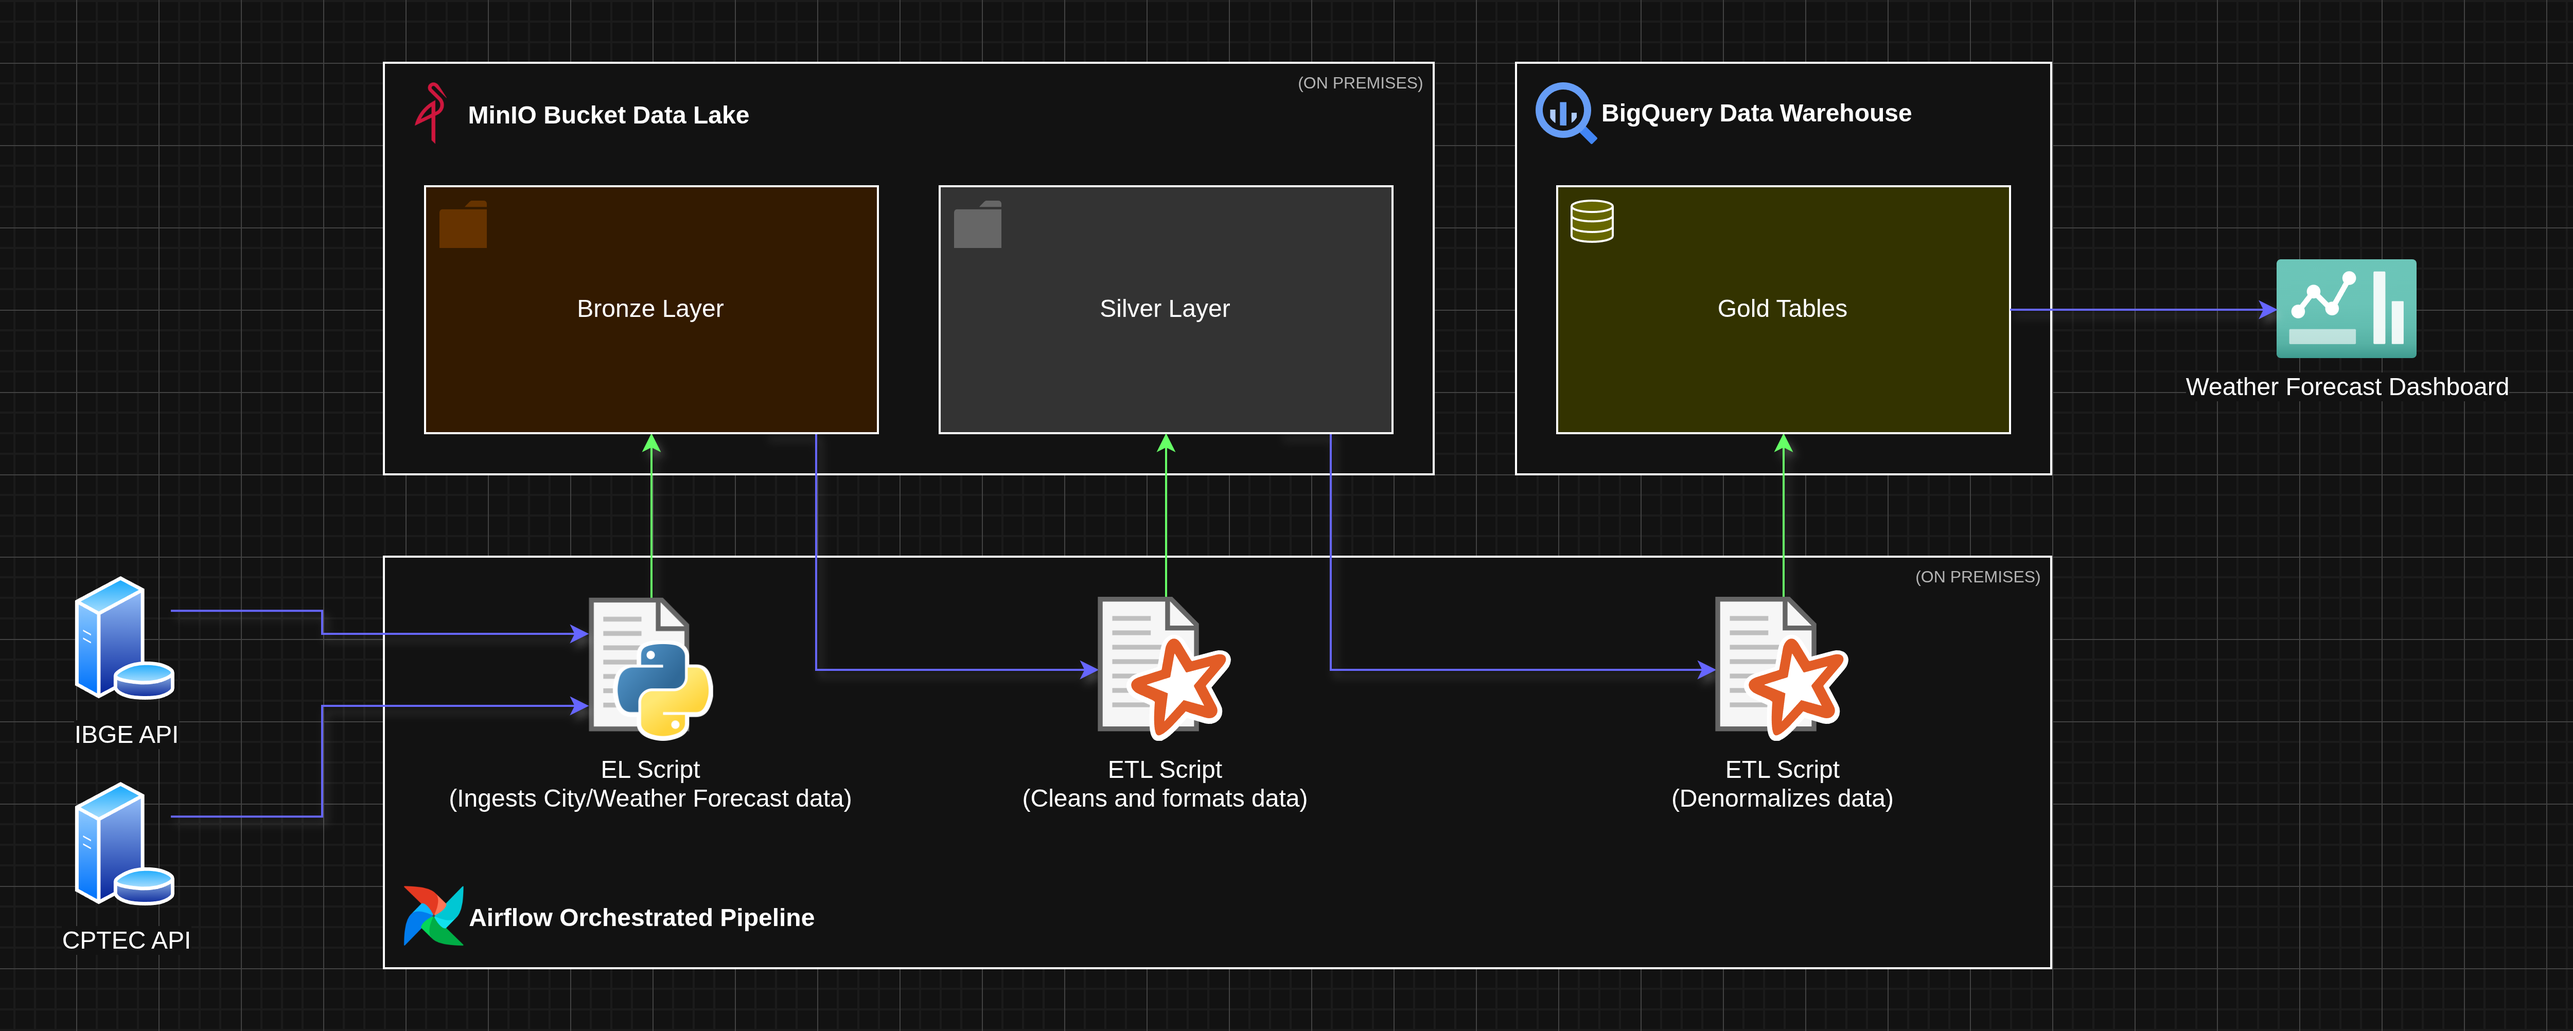
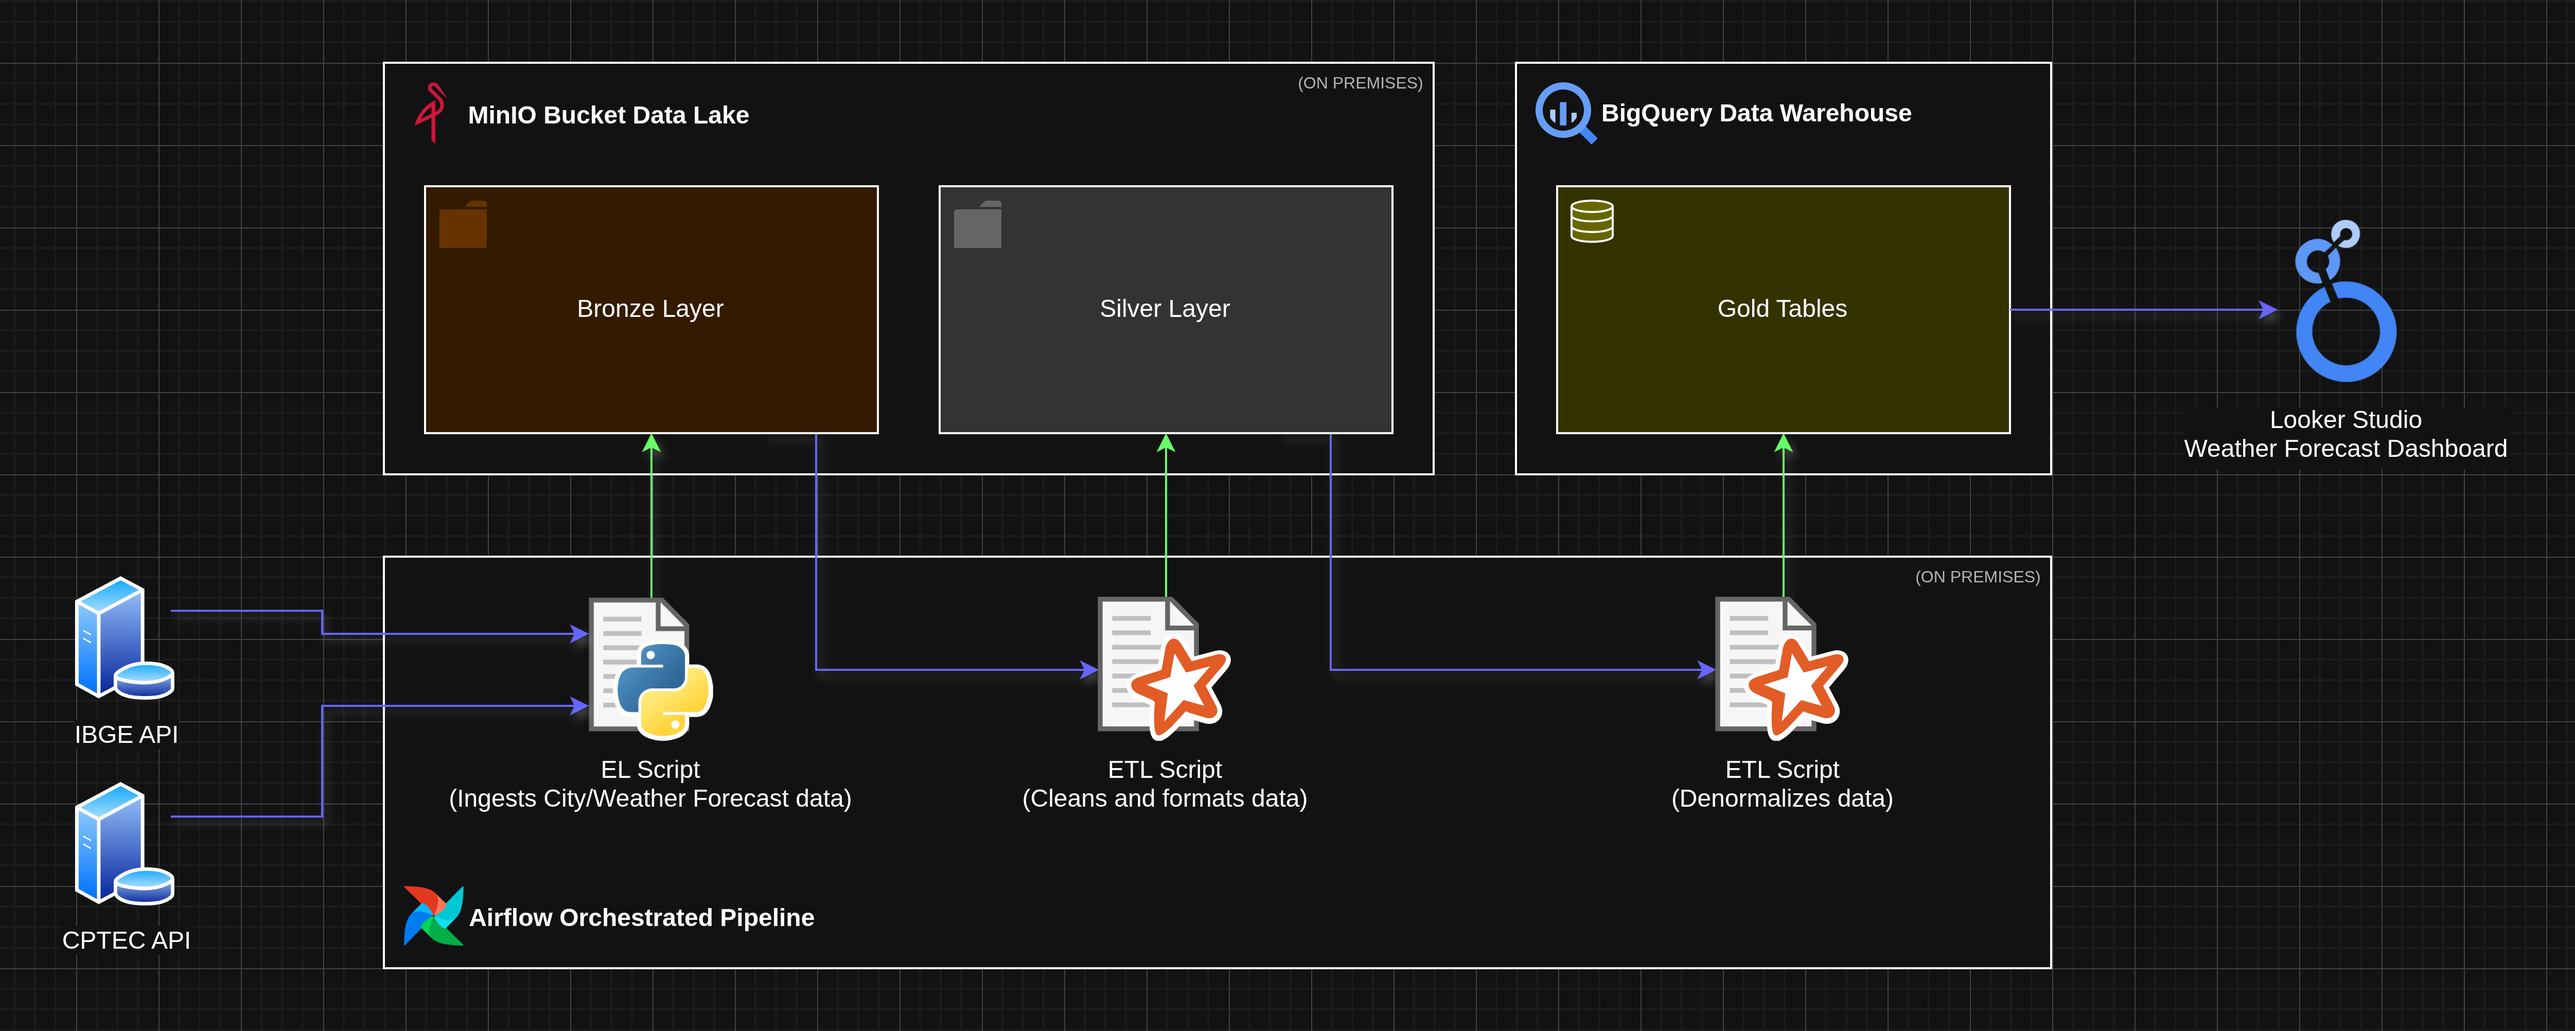
refactor(readme): Update README.md

diff --git a/README.md b/README.md
@@ -6,6 +6,53 @@ O projeto mistura elementos on-premises(executados localmente) como o a pipeline
 Diagrama do projeto:
 ![Diagrama do Projeto](.github/images/project_diagram.png)
 
+## Setup
+
+### 1. Com Airflow e Docker:
+
+#### 1.1 Baixar os arquivos deste repositório.
+O primeiro passo para fazer o projeto funcionar é baixar os arquivos deste repositório para a sua máquina, isso pode ser feito navegando por meio de um terminal até o diretório onde você deseja colocar os arquivos e executar o comando `git clone https://github.com/VictorClvtt/weather-bigquery-warehouse.git` ou simplesmente baixando os arquivos pela interface do GitHub e extraindo o .zip onde desejar.
+
+#### 1.2 Criar um projeto Astro.
+Para isso será necessário já ter instalado na sua máquina os softwares `astro-cli`, `docker` e `docker-compose`.
+Supondo que essas dependencias já estão instaladas basta criar um diretório para o seu projeto Airflow e executar o comando `astro-cli dev init` para iniciar um projeto Airflow no diretório desejado.
+
+Depois disso você deve mover os arquivos do diretório [airflow/](airflow/) deste repositório para o diretório do novo projeto Airflow e sobrescrever arquivos/diretórios que tenham nomes iguais a de arquivos/diretórios que estão sendo movido para o diretório do projeto Airflow.
+
+Também é importante que dentro do diretório [airflow/include/](airflow/include/) sendo copiado você crie um arquivo `.env` com a variável "GOOGLE_APPLICATION_CREDENTIALS" sendo o valor dela o caminho para um arquivo .json com suas credenciais da API do BigQuery que você deve criar através do console do GCP e armazenar idealmente no mesmo diretório do `.env`.
+
+#### 1.3 Executar o projeto Astro.
+Com todos os arquivos necessários em seus devidos lugares, basta executar o comando `astro-cli dev start` para que os containers Docker com os componentes do projeto(Airflow, MinIO, Spark Master e Spark Worker) sejam inicializados.
+
+Após a inicialização terminar a pipeline ja vai estar funcionando, orquestrada pelo Airflow.
+
+Para acessar a interface web do MinIO basta acessar https://127.0.0.1:9000 e inserir o nome de usuario padrão "admin" e a senha padrão "admin123" para logar. Para a interface web do Airflow basta acessar https://127.0.0.1:8080 e inserir o nome de usuario padrão "admin" e a senha padrão "admin" para logar.
+
+### 2. Com Virtual Env local:
+
+#### 2.1 Baixar os arquivos deste repositório.
+O primeiro passo para fazer o projeto funcionar é baixar os arquivos deste repositório para a sua máquina, isso pode ser feito navegando por meio de um terminal até o diretório onde você deseja colocar os arquivos e executar o comando `git clone https://github.com/VictorClvtt/weather-bigquery-warehouse.git` ou simplesmente baixando os arquivos pela interface do GitHub e extraindo o .zip onde desejar.
+
+#### 2.2 Preparar credenciais.
+É importante que dentro do diretório raiz do projeto você crie um arquivo `.env` com a variável "GOOGLE_APPLICATION_CREDENTIALS" sendo o valor dela o caminho para um arquivo .json com suas credenciais da API do BigQuery que você deve criar através do console do GCP e armazenar idealmente no mesmo diretório do `.env`.
+
+#### 2.3 Subir um container MinIO.
+Já que este método de setup serve apenas para execuções manuais e testes, será necessário subir apena um container para o MinIO com o seguinte comando:
+```bash
+docker run -d \
+  --name minio \
+  -p 9000:9000 \
+  -p 9001:9001 \
+  -e MINIO_ROOT_USER=admin \
+  -e MINIO_ROOT_PASSWORD=admin123 \
+  quay.io/minio/minio server /data --console-address ":9001"
+```
+Após executar esse comando o MinIO estará rodando, é possível acessar a interface web do MinIO acessando https://127.0.0.1:9000 e inserindo o nome de usuario padrão "admin" e a senha padrão "admin123" para logar.
+
+#### 2.3 Criar o Virtual Env.
+Para criar o virtual env basta executar o comando `python -m venv .venv` para criar o ambiente, depois executar `source .venv/bin/activate` para ativar o ambiente e por fim executar `pip install -r requirements.txt` para baixar todas as dependencias necessárias para executar o projeto dessa forma.
+
+Com o .venv criado já é possível executar o projeto manualmente, basta utilizar algum atalho da sua IDE para executar os scripts ou executa-los através do terminal utilizando o ambiente criado.
 
 ## Etapas
 
@@ -125,3 +172,6 @@ O script faz isso também utilizando principalmente o framework PySpark para ler
 Nessa etapa do projeto foi criada uma DAG com Airflow que automatiza e define as dependências entre as Tasks da pipeline.
 
 O setup de todo o ambiente, tanto pro Airflow quanto pro Spark e pro MinIO foi feito utilizando Docker, o que permite a reproducibilidade do ambiente e minimiza erros de execução da pipeline.
+
+### 5. Dashboard: Painel interativo utilizando Looker Studio
+Com o uso do serviço de criação de painéis interativos Looker Studio também do Google, foi possível com facilidade criar um Dashboard interativo com gráficos alimentados pelos dados climáticos de cada cidade.
